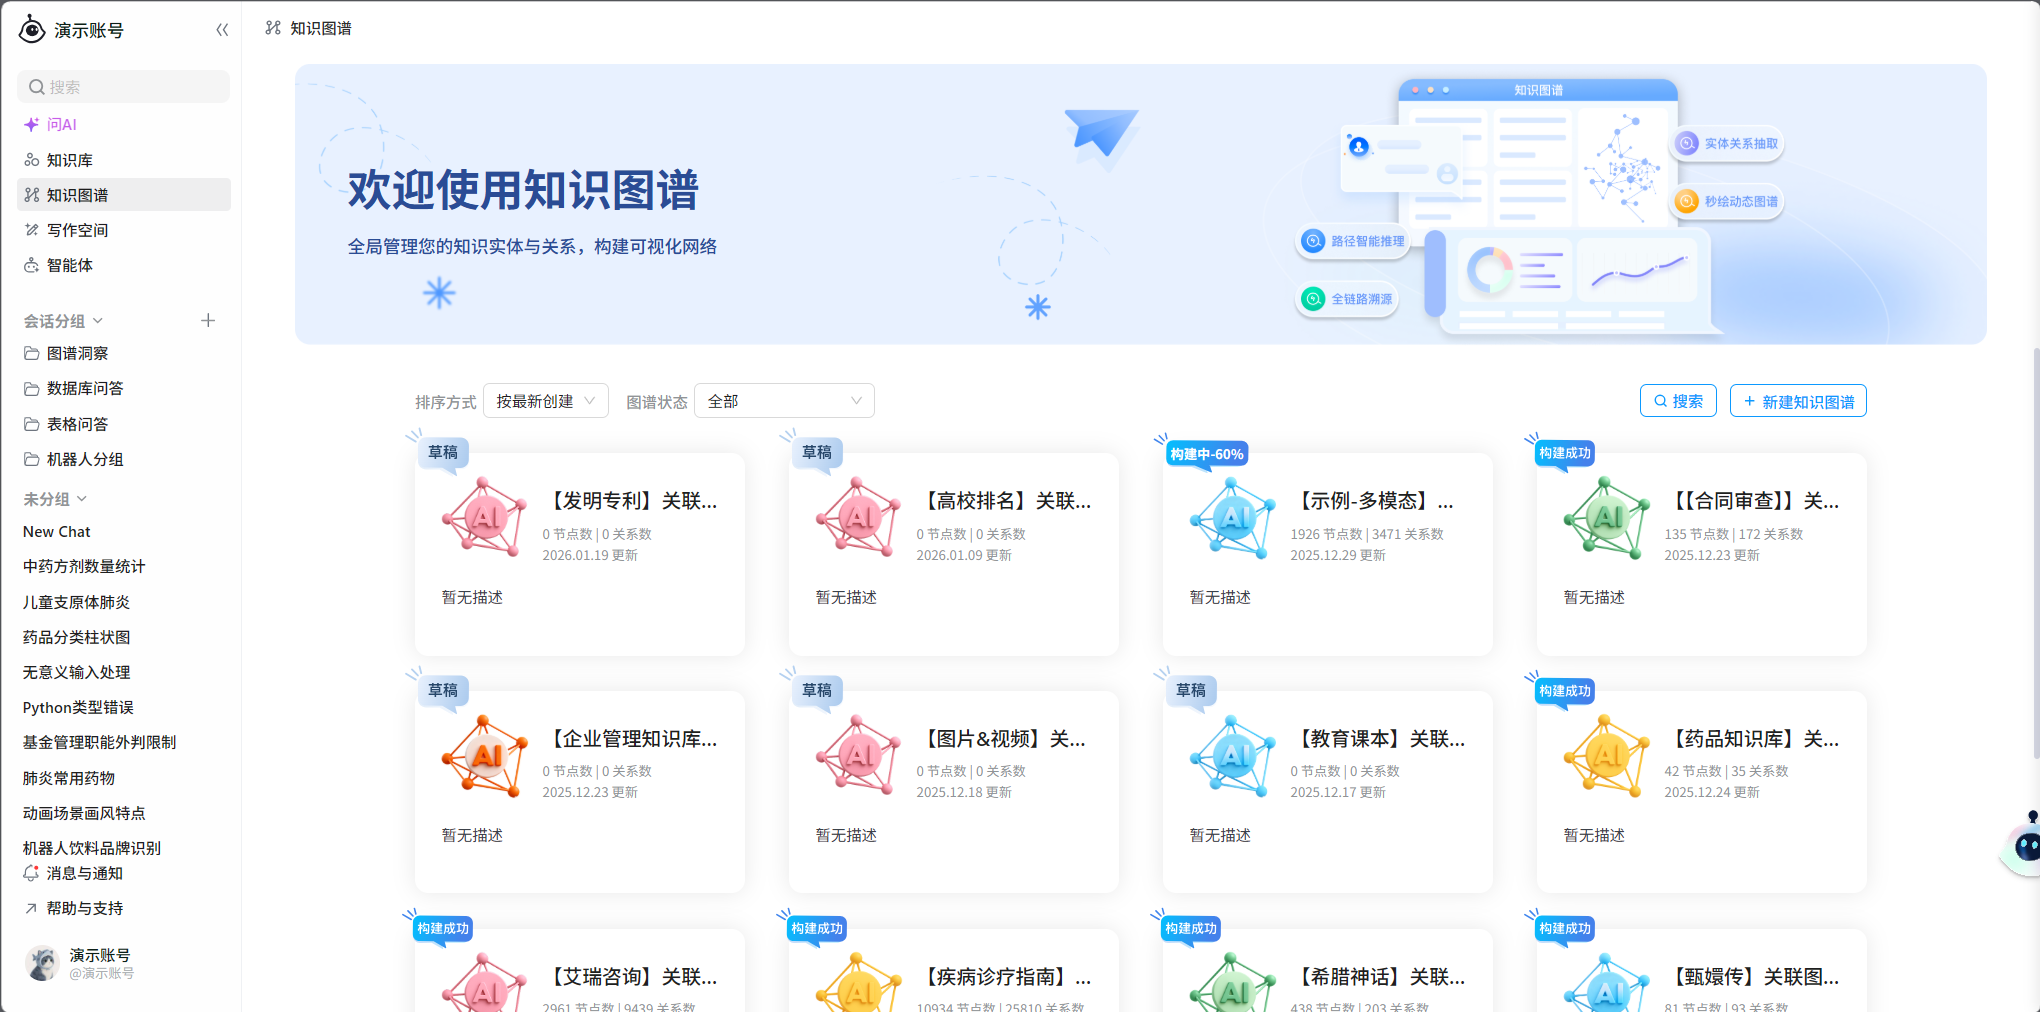
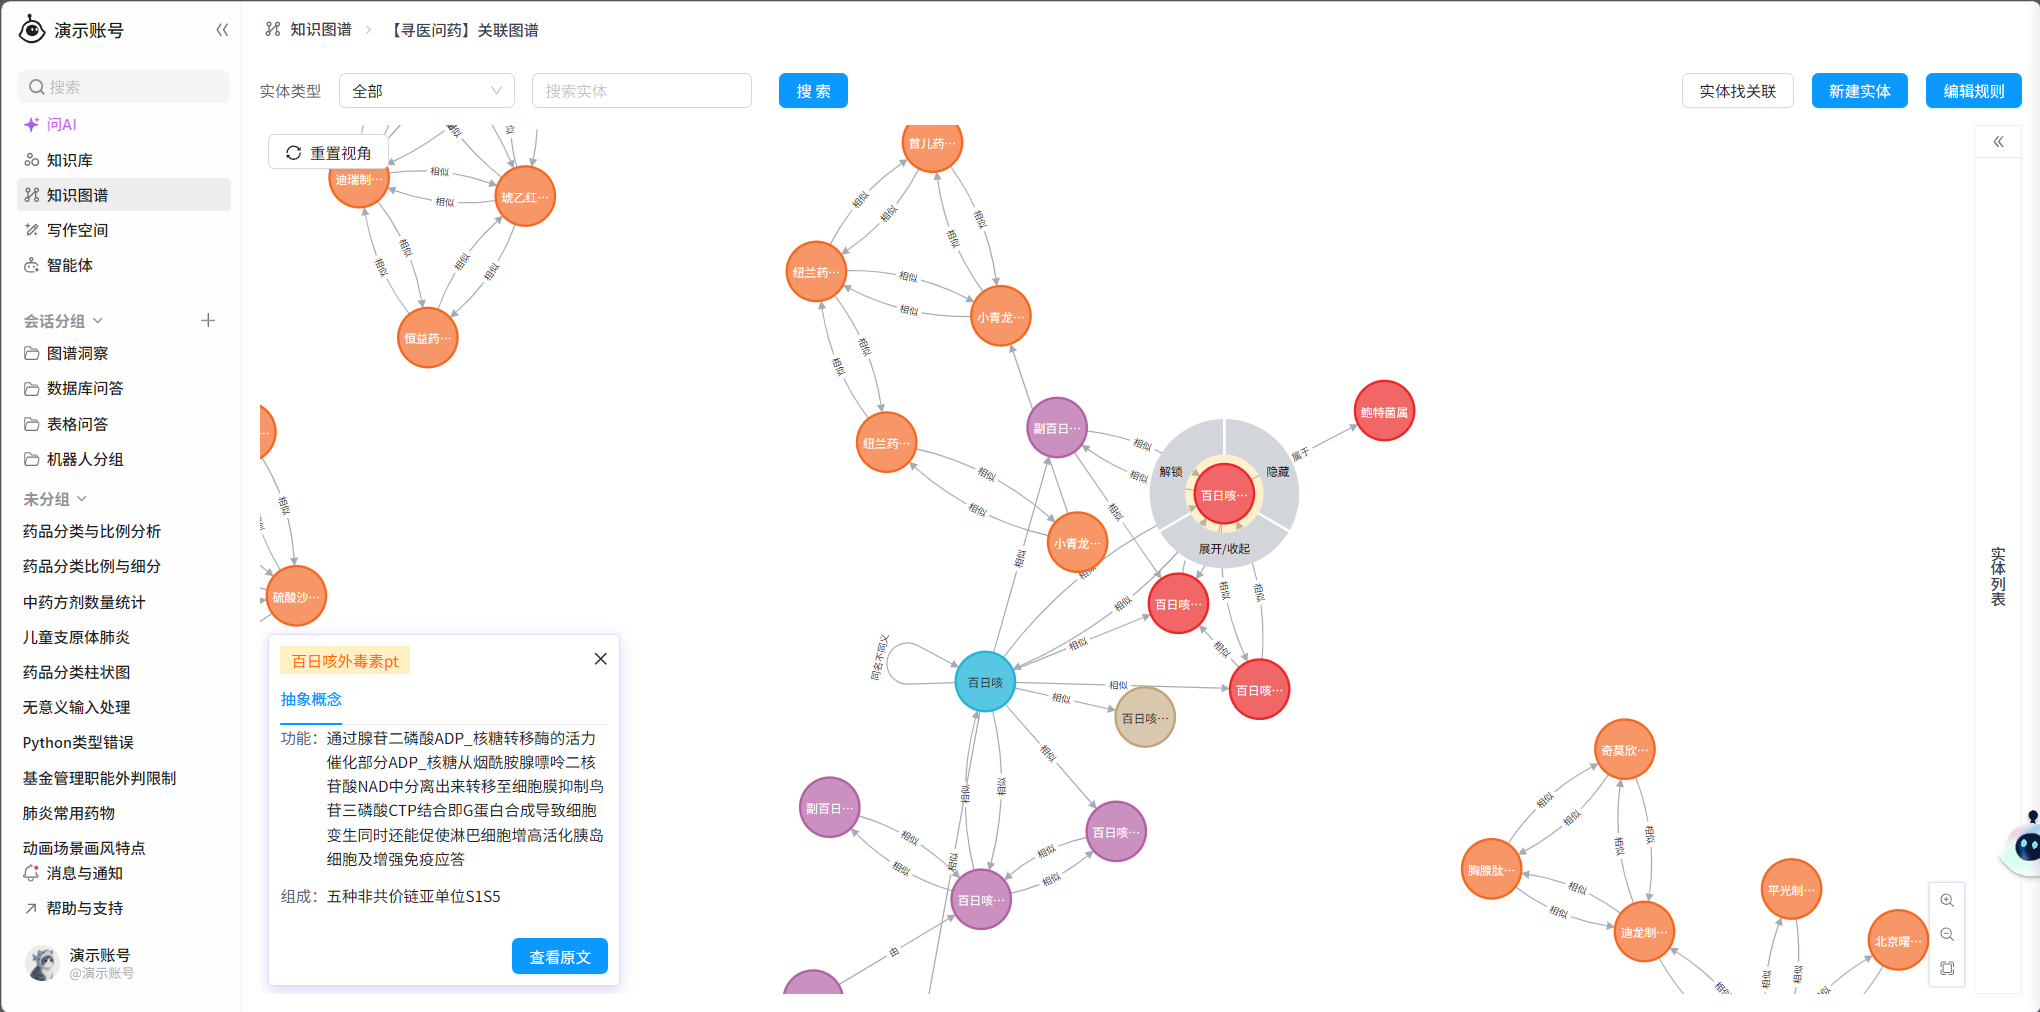
docs(readme): add website badge and ecosystem links (#8)

diff --git a/README.md b/README.md
@@ -2,7 +2,7 @@
 
 <!--
   素材说明：
-  - badge（license / go / web / protocol-mcp）：仓库内置自包含 SVG，见 docs/images/badges/，不依赖外网。
+  - badge（license / go / web / protocol-mcp / website）：仓库内置自包含 SVG，见 docs/images/badges/，不依赖外网。
   - logo：docs/images/logo.svg。
   - architecture.png：系统架构图（当前正文用文字分层图代替）。
 -->
@@ -16,8 +16,9 @@
 ![Go](./docs/images/badges/go.svg)
 ![Web](./docs/images/badges/web.svg)
 ![Protocol](./docs/images/badges/protocol-mcp.svg)
+[![Website](./docs/images/badges/website.svg)](https://corekg.com/)
 
-**目录** · [项目简介](#项目简介) · [界面预览](#界面预览) · [核心特性](#核心特性) · [系统架构](#系统架构) · [快速开始](#快速开始) · [开发指南](#开发指南) · [MCP Server](#mcp-server) · [相关文档](#相关文档) · [贡献指南](#贡献指南) · [社区与支持](#社区与支持) · [许可证](#许可证)
+**目录** · [项目简介](#项目简介) · [界面预览](#界面预览) · [核心特性](#核心特性) · [系统架构](#系统架构) · [快速开始](#快速开始) · [开发指南](#开发指南) · [MCP Server](#mcp-server) · [生态与联动](#生态与联动) · [相关文档](#相关文档) · [贡献指南](#贡献指南) · [社区与支持](#社区与支持) · [许可证](#许可证)
 
 </div>
 
@@ -25,7 +26,9 @@
 
 ## 项目简介
 
-CoreKG 是一个面向企业与团队的知识平台。它把**知识库（Forest）**作为承载文档（File）的容器，对多格式文档完成解析与分块后写入检索引擎，并在此基础上提供**基于知识库的对话（Chat）**与**检索（Search）**：
+CoreKG 是一个面向企业与团队的知识平台。它是 [智慧矩阵（insmtx）](https://insmtx.com/)企业 AI 产品矩阵中的**企业知识引擎**（官网：[corekg.com](https://corekg.com/)），并与同矩阵的 **Lework**（企业级 AI 队友 / 数字员工）协同：CoreKG 提供知识供给，Lework 负责任务执行与经验沉淀。
+
+它把**知识库（Forest）**作为承载文档（File）的容器，对多格式文档完成解析与分块后写入检索引擎，并在此基础上提供**基于知识库的对话（Chat）**与**检索（Search）**：
 
 - 上传一份 Word / PDF / Excel / 图片文档，系统自动完成解析 → 拆 chunk → 向量化 → 入库；
 - 随后即可对整库文档提问，得到带引用依据的 RAG 回答，也可按知识库范围做语义检索；
@@ -61,7 +64,7 @@ CoreKG 是一个面向企业与团队的知识平台。它把**知识库（Fores
 
 <p align="center"><img src="./docs/images/ui-agent.png" width="800" alt="智能体" /></p>
 
-**知识图谱**（图谱浏览、检索分析、实体编辑）：
+**知识图谱**（实体关系可视化、节点详情卡、检索分析、引用溯源）：
 
 <p align="center"><img src="./docs/images/ui-knowledge-graph.png" width="800" alt="知识图谱" /></p>
 
@@ -276,6 +279,22 @@ go test ./apps/keapi/...            # 定向测试
 
 完整接入文档（三种客户端接入方式、Tool 列表、curl 验证）见 **[docs/mcp-server.md](docs/mcp-server.md)**。
 
+## 生态与联动
+
+CoreKG 是 [智慧矩阵（insmtx）](https://insmtx.com/)企业 AI 产品矩阵的一员，与同矩阵的其他产品协同，形成从能力供给到业务执行的闭环：
+
+| 产品 | 角色 | 说明 |
+|---|---|---|
+| **[CoreKG](https://corekg.com/)** | 企业 AI 知识引擎 | 多源知识接入、治理、理解与检索，提供知识问答、知识图谱、引用溯源（本仓库） |
+| **[Lework](https://lework.insmtx.com/)** | 企业级 AI 队友 / 数字员工 | 以真实项目成员身份接收与执行任务、交付成果，沉淀 Skill 与项目记忆 |
+| [CatAPI](https://catapi.insmtx.com/) | AI 能力开放平台 | 通过标准 API 提供文档解析 / OCR / 结构化提取等成熟 AI 能力 |
+| [Insmtx Cloud](https://insmtx.com/) | 大模型管理平台 | 模型接入、智能路由、权限与用量管理 |
+| [Insmtx 20](https://insmtx.com/all-in-one) | AI 大模型一体机 | 本地 GPU、模型预装、内网运行的私有化算力底座 |
+
+**数据流协同**：`企业数据 → CatAPI / CoreKG（知识与工具能力）→ Lework（任务执行与成果沉淀）→ 项目记忆 / Skill / 企业知识持续回流`。
+
+一言以蔽之：**CoreKG 让企业知识"看得见、找得到、答得准、用得上"，Lework 让这些知识与数字员工一起把任务真正做完**，两者共同构成智慧矩阵的企业智能化闭环。
+
 ## 相关文档
 
 | 文档 | 内容 |
@@ -287,6 +306,8 @@ go test ./apps/keapi/...            # 定向测试
 | [docs/pipeline-integration.md](docs/pipeline-integration.md) | 文档摄入（Python pipeline）集成说明 |
 | [docs/mcp-server.md](docs/mcp-server.md) | MCP Server 接入指南 |
 | [frontend/README.md](frontend/README.md) | 前端开发指南（CoreKG Web / Workflow Web） |
+| [corekg.com](https://corekg.com/) | CoreKG 官网（产品能力 / 技术架构 / 私有化方案） |
+| [insmtx.com/products](https://insmtx.com/products) | 智慧矩阵产品矩阵（CoreKG · Lework · CatAPI 等） |
 
 ## 贡献指南
 
